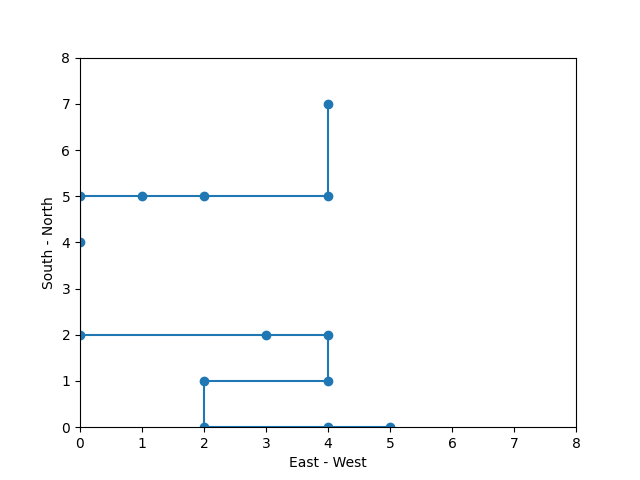
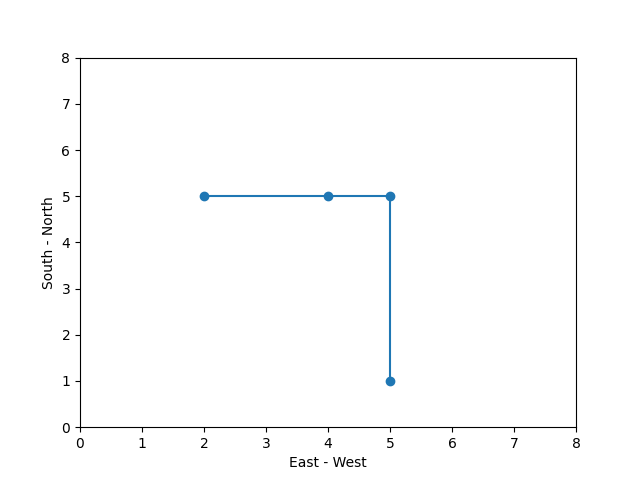
fixed the unary str issue

diff --git a/code/Simulator.py b/code/Simulator.py
@@ -427,7 +427,7 @@ def practice():
 def experiment_4():
     #same 8x8 map
     paths = []
-    paths.append(setUpPaths("Paths/experiment4/path0",1,random.randint(6,25),xmax = 8, ymax = 8)[0])
+    paths.append(setUpPaths("Paths/experiment4/path0",1,3,xmax = 8, ymax = 8)[0])
     # paths.append(setUpPaths("Paths/experiment4/path1",1,random.randint(6,25),xmax = 8, ymax = 8)[0])
     # paths.append(setUpPaths("Paths/experiment4/path2",1,random.randint(6,25),xmax = 8, ymax = 8)[0])
     # paths.append(setUpPaths("Paths/experiment4/path3",1,random.randint(6,25),xmax = 8, ymax = 8)[0])
@@ -438,41 +438,26 @@ def experiment_4():
     # then run GA to each node 
     # 
     outString = "Results: \n"
-    baseString = "BASE SOL: \n" 
-    + "Nodes are :  \n"
+    baseString = "BASE SOL: \n"  + "Nodes are :  \n"
     for node in base[0]:
         baseString += node.printNodeExclusive()
-    baseString += ("\n" + "Total Time : " 
-    + str(base[1]) 
-    + "\n" 
-    + "Total Fuel : " 
-    + str(base[2]) 
-    + "\n")
+    baseString += ("\n" + "Total Time : " + str(base[1]) + "\n" + "Total Fuel : " + str(base[2]) + "\n")
 
     solString = "BEST LAST 3 SOL: \n"
     solString += "1: " + "Nodes are :  \n"
     for node in bestSol[-3][0]:
         solString += node.printNodeExclusive()
-    solString += ("Total Time : " 
-    + str(bestSol[-3][1]) + "\n" 
-    + "Total Fuel : " 
-    + str(bestSol[-3][2]) + "\n")
+    solString += ("Total Time : "  + str(bestSol[-3][1]) + "\n" + "Total Fuel : " + str(bestSol[-3][2]) + "\n")
 
     solString += "2: " + "Nodes are :  \n"
     for node in bestSol[-3][0]:
         solString += node.printNodeExclusive()
-    solString += ("Total Time : " 
-    + str(bestSol[-2][1]) + "\n" 
-    + "Total Fuel : " 
-    + str(bestSol[-2][2]) + "\n")
+    solString += ("Total Time : " + str(bestSol[-2][1]) + "\n" + "Total Fuel : " + str(bestSol[-2][2]) + "\n")
 
     solString += "3: " + "Nodes are :  \n"
     for node in bestSol[-3][0]:
         solString += node.printNodeExclusive()
-    solString += ("Total Time : " 
-    + str(bestSol[-1][1]) + "\n" 
-    + "Total Fuel : " 
-    + str(bestSol[-1][2]) + "\n")
+    solString += ("Total Time : " + str(bestSol[-1][1]) + "\n" + "Total Fuel : " + str(bestSol[-1][2]) + "\n")
     totalString = outString + baseString + solString
     exportFinalStringToFile(totalString , "ResultSummary/experiment4.txt")
     return
@@ -512,8 +497,8 @@ def exportFinalStringToFile(string, title = "ResultSummary/results.txt"):
 def STTP():
     # runCustom(8,8)
     # experiment_1()
-    #experiment_4()
-    practice()
+    experiment_4()
+    # practice()
 
 
 
